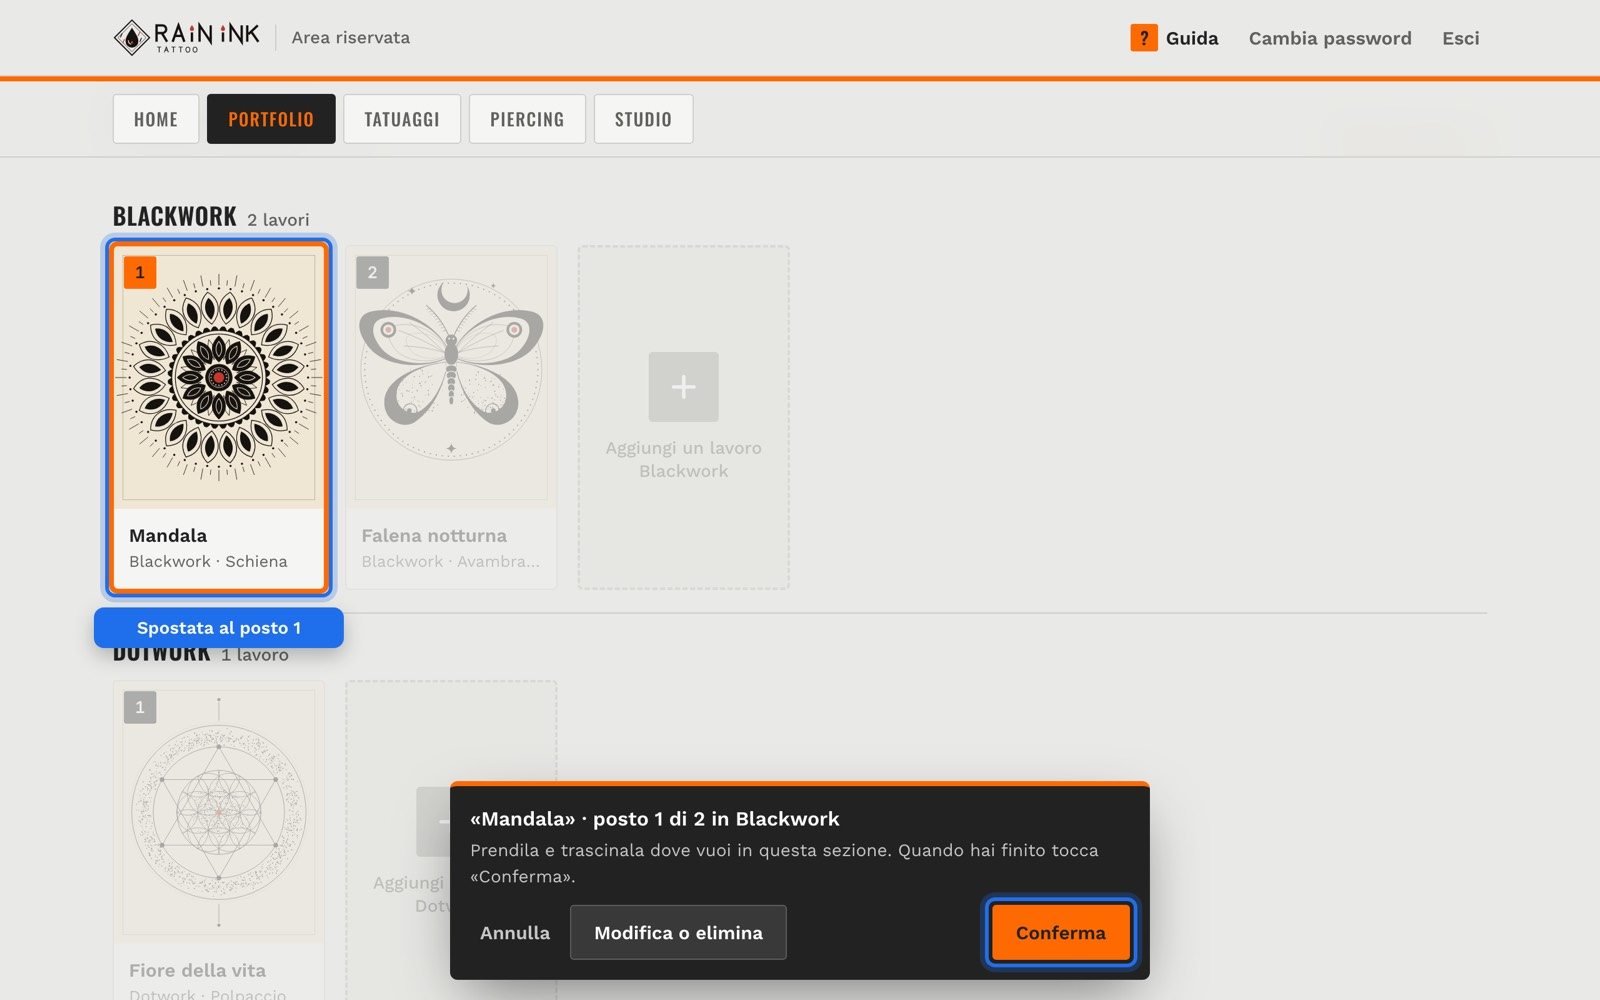
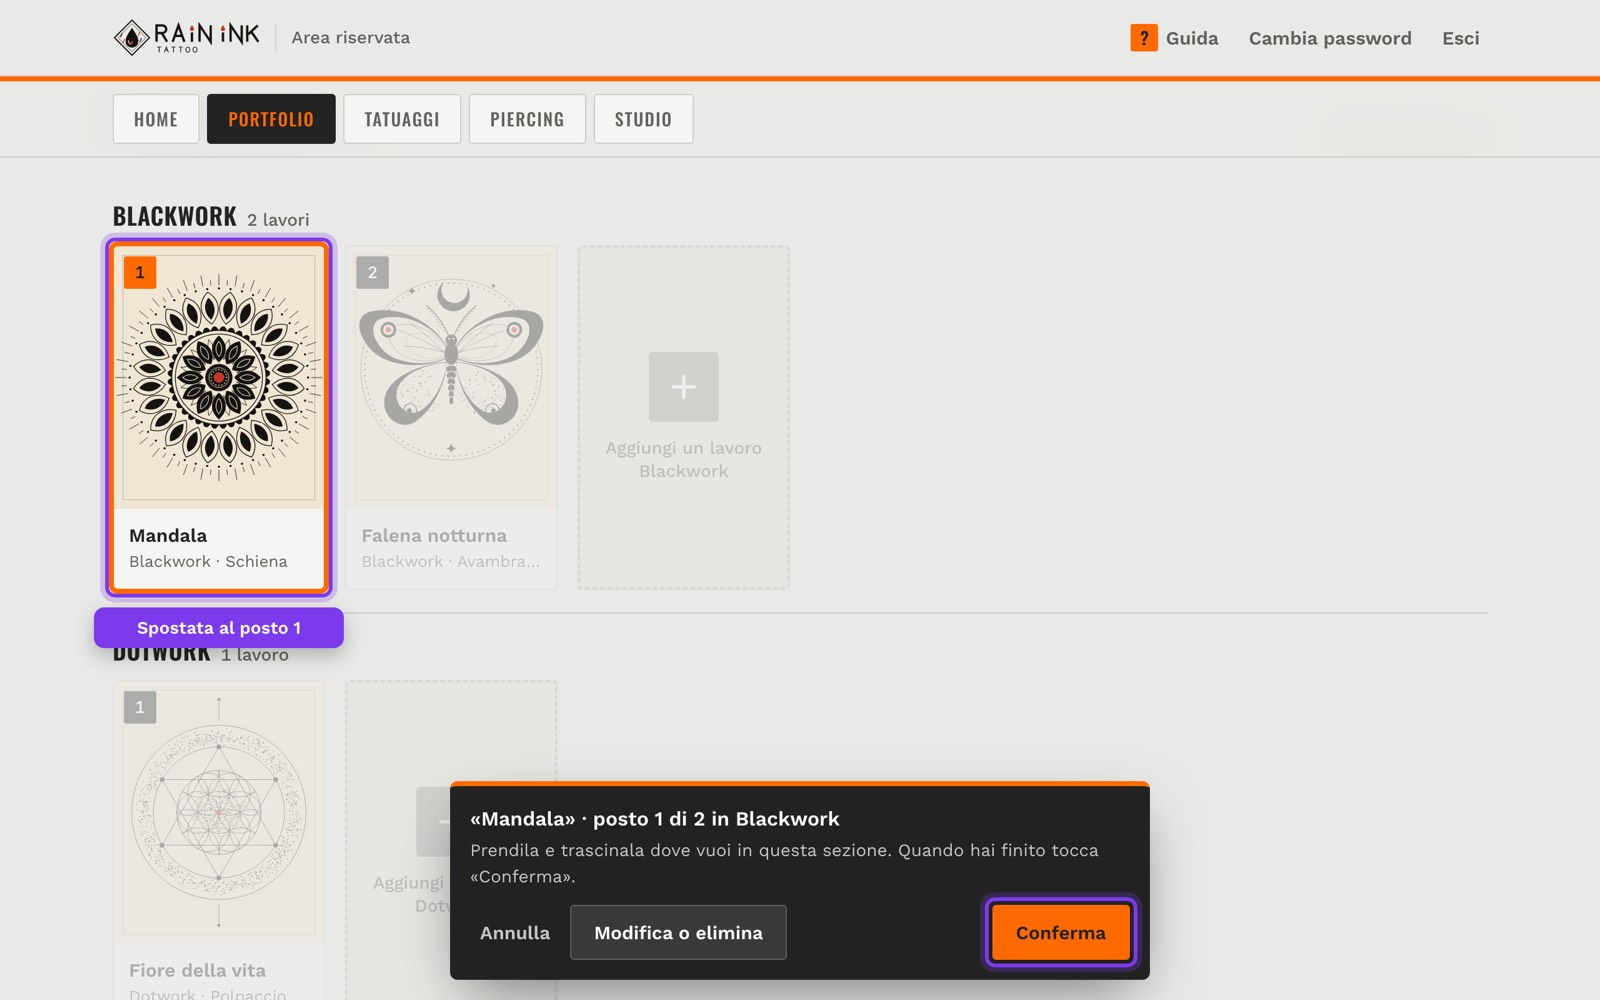
Area riservata: evidenziazioni della guida in viola, scritta «Guida» grigia come gli altri link

diff --git a/area-riservata.html b/area-riservata.html
@@ -252,7 +252,7 @@ input[type=text],input[type=password]{border-radius:3px;background:#fff;border-c
 .sv .barra span{background:var(--acc)}
 
 /* ================= GUIDA ================= */
-.top .guida-btn{margin-left:auto;color:var(--ink);gap:6px}
+.top .guida-btn{margin-left:auto;gap:6px}
 .top .guida-btn+.cambia-pw{margin-left:0}
 .guida-btn .q{display:inline-grid;place-items:center;width:22px;height:22px;border-radius:2px;background:var(--acc);color:var(--ink);font:600 14px/1 var(--head)}
 .cambia-pw .corto{display:none}
@@ -284,8 +284,8 @@ input[type=text],input[type=password]{border-radius:3px;background:#fff;border-c
 #d-zoom .zoom-box{position:relative;width:min(100%,(100svh - 80px) * 1.6);aspect-ratio:16/10;margin:0 auto}
 #d-zoom img{display:block;width:100%;height:100%}
 /* i punti da cliccare lampeggiano sopra la schermata ingrandita */
-.zoom-punto{position:absolute;border:4px solid #1f6feb;border-radius:10px;pointer-events:none;animation:punto 1s ease-in-out infinite}
-@keyframes punto{0%,100%{opacity:1;box-shadow:0 0 0 0 rgba(31,111,235,.6)}50%{opacity:.15;box-shadow:0 0 0 14px rgba(31,111,235,0)}}
+.zoom-punto{position:absolute;border:4px solid #7c3aed;border-radius:10px;pointer-events:none;animation:punto 1s ease-in-out infinite}
+@keyframes punto{0%,100%{opacity:1;box-shadow:0 0 0 0 rgba(124,58,237,.6)}50%{opacity:.15;box-shadow:0 0 0 14px rgba(124,58,237,0)}}
 @media (prefers-reduced-motion:reduce){.zoom-punto{animation:none}}
 #d-zoom .g-chiudi{position:absolute;top:6px;right:6px;width:44px;height:44px;border-radius:3px;background:var(--acc);color:var(--ink)}
 @media (max-width:600px){
